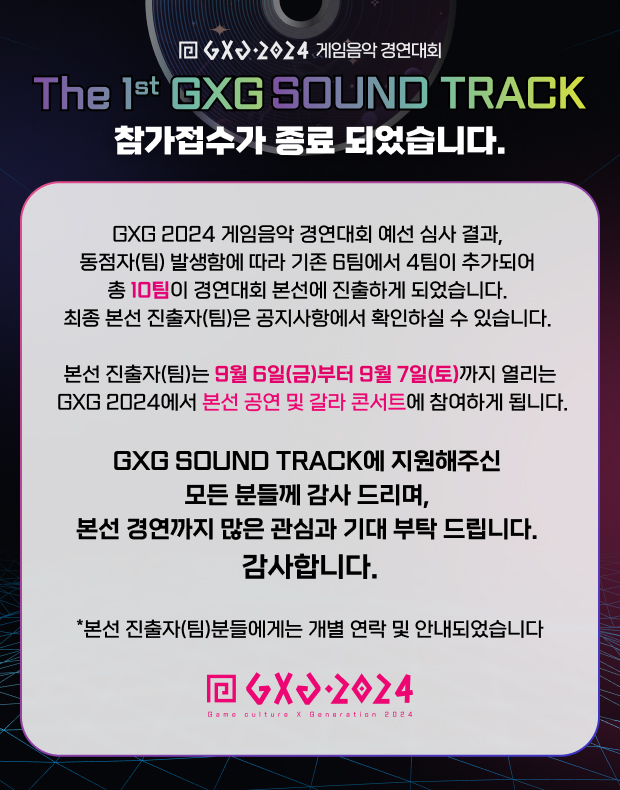
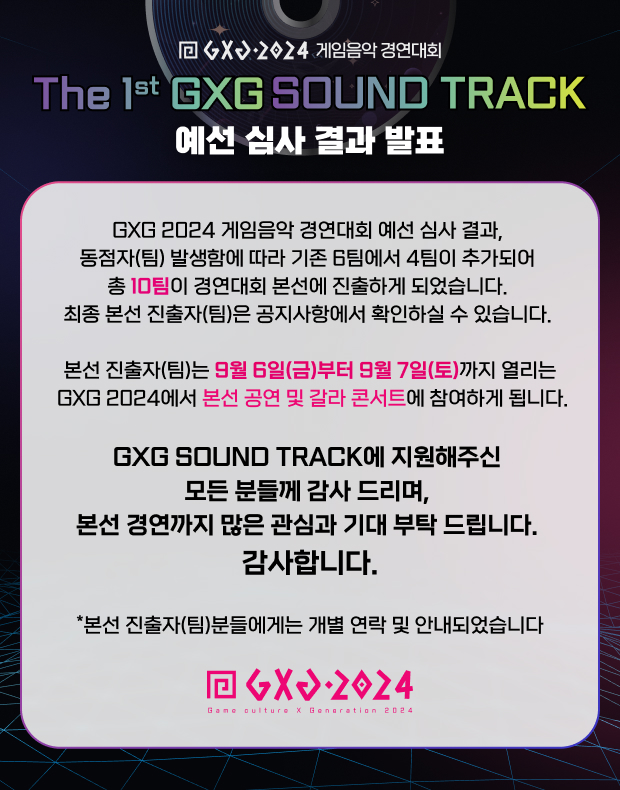
디자인 수정건 퍼블 작업

diff --git a/notice_view7.html b/notice_view7.html
@@ -264,6 +264,8 @@
                                                 <br>
                                                 [본상] – 50만원, 4팀 *시상 부문 추가
                                                 <br>
+                                                ※ 세금 공제 후 지급됩니다.
+                                                <br>
                                                 <br>
                                                 9월 6일(금)에 판교역 광장에서 본선 진출 10팀의 본선 경연 무대가 펼쳐지며,
                                                 <br>

diff --git a/index.html b/index.html
@@ -56,7 +56,7 @@
                     <span>여러분의 많은 관심과 기대 부탁드립니다. <i>감사합니다.</i></span>
                     <img src="images/pop_gxg2.svg" alt="GXG">
                 </div> -->
-                <a href="notice1.html">
+                <a href="notice_view7.html">
                     <img src="images/popup_img.jpg" alt="image" style="width: 100%;">
                 </a>
             </div>
